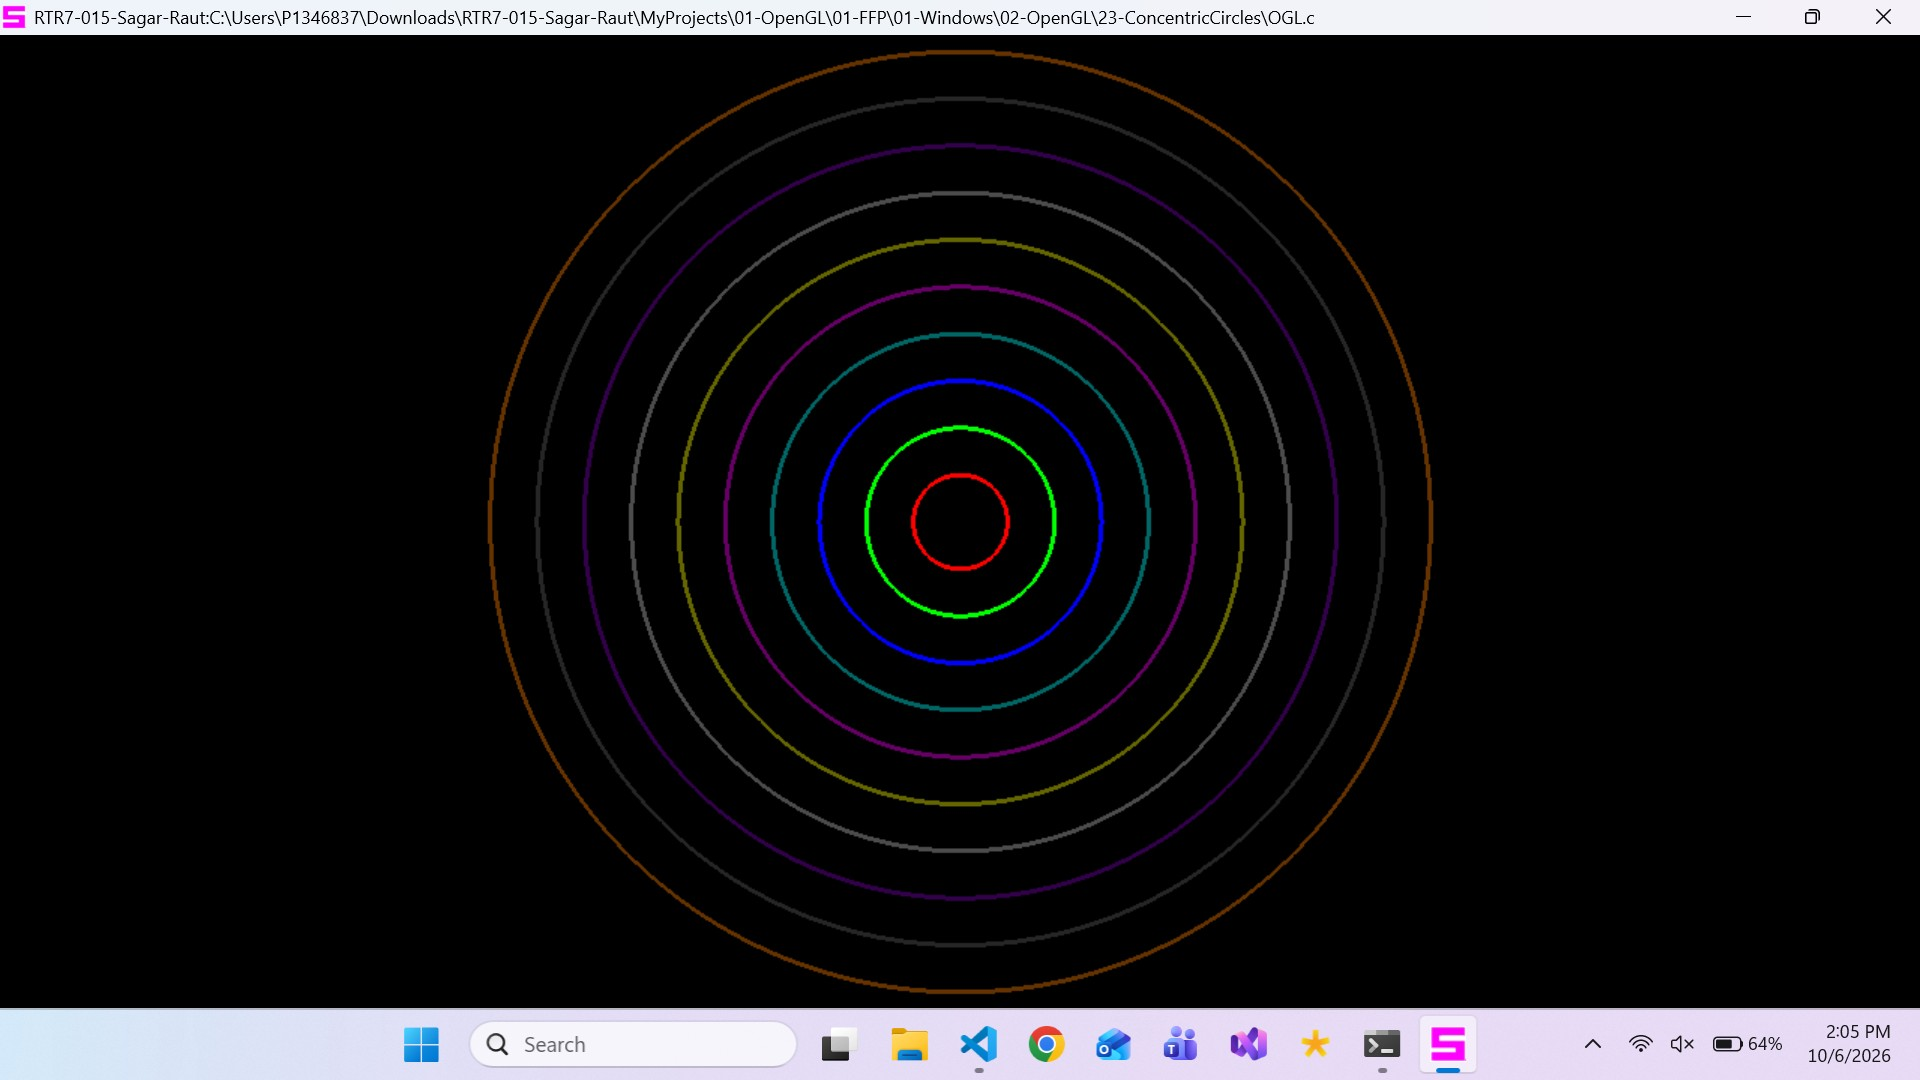
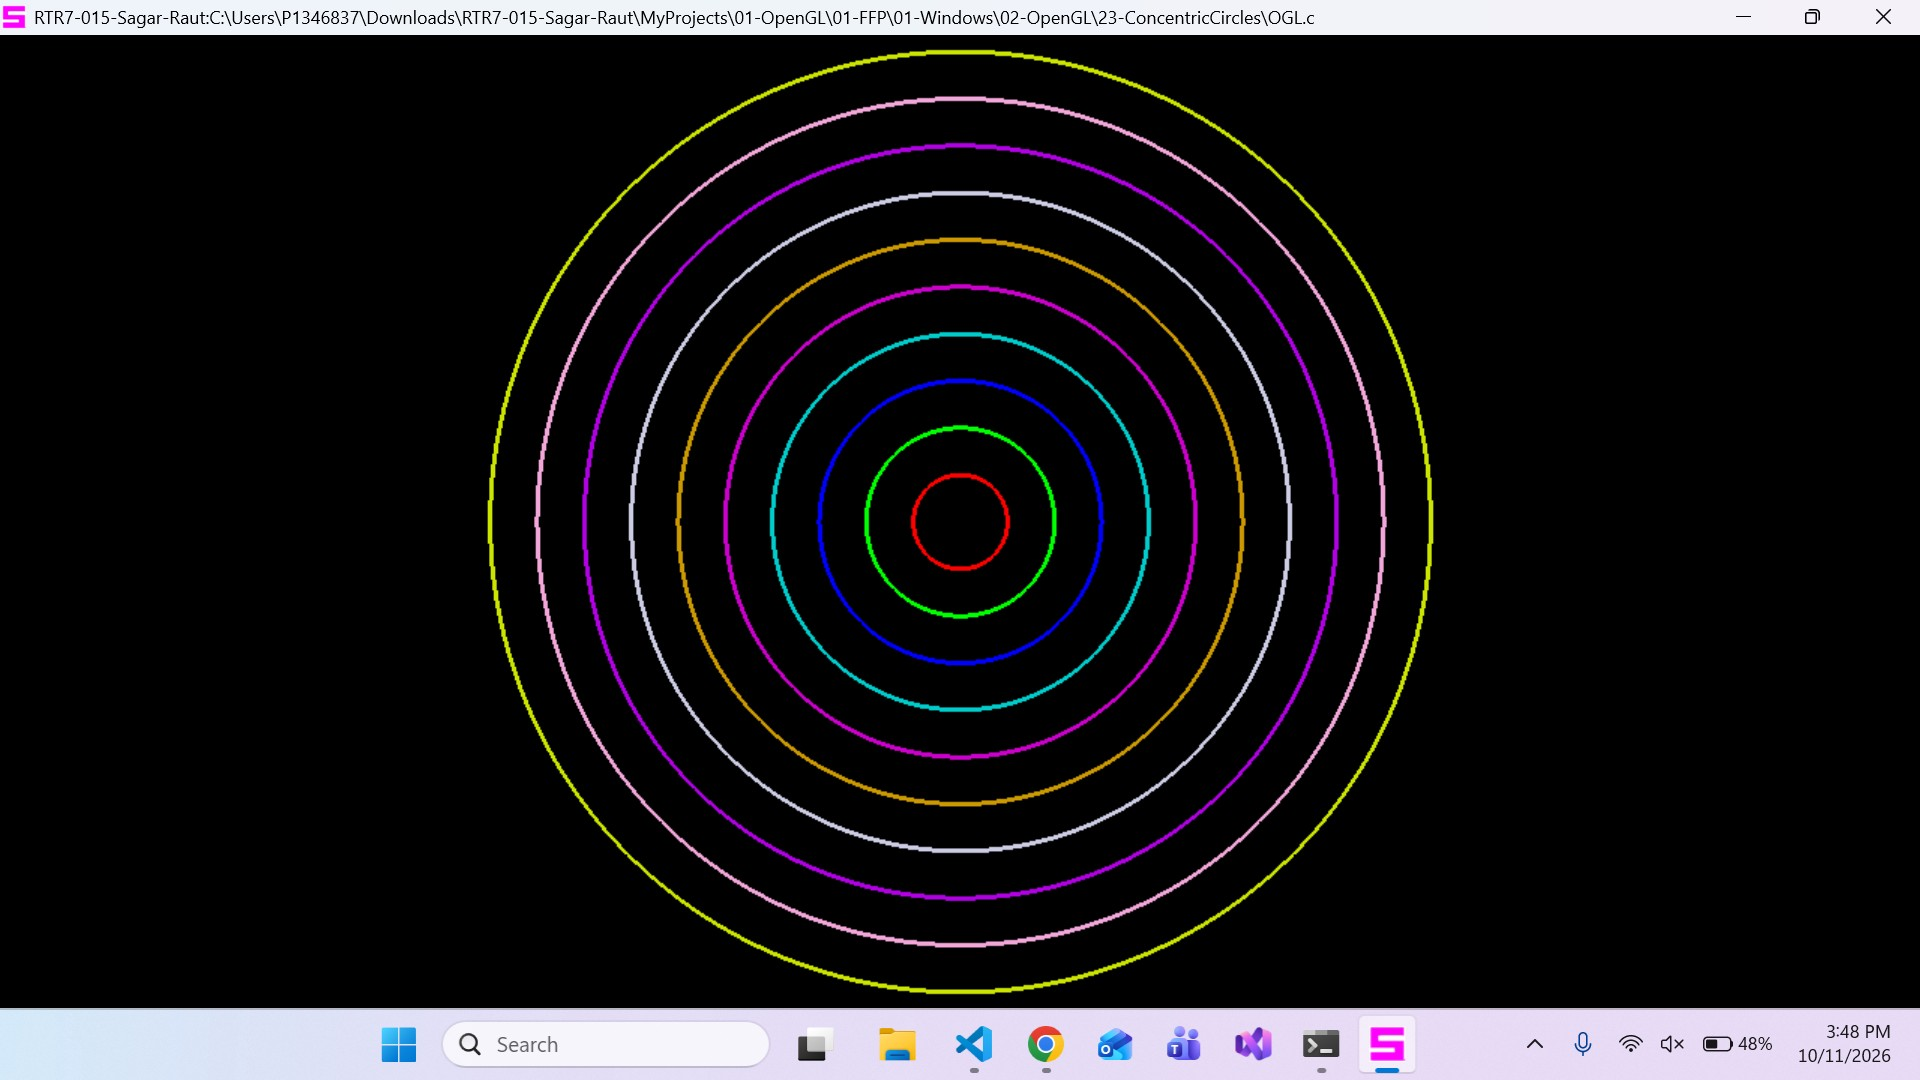
Concentric Circles code updated

diff --git a/MyProjects/01-OpenGL/01-FFP/01-Windows/02-OpenGL/23-ConcentricCircles/OGL.c b/MyProjects/01-OpenGL/01-FFP/01-Windows/02-OpenGL/23-ConcentricCircles/OGL.c
@@ -452,25 +452,25 @@ void render(void)
 	glColor3f(0.0f, 0.0f, 1.0f); // blue
 	renderCircleUsingLines(0.3f);
 
-	glColor3f(0.0f, 0.4f, 0.4f); // cyan
+	glColor3f(0.0f, 0.8f, 0.8f); // cyan
 	renderCircleUsingLines(0.4f);
 
-	glColor3f(0.4f, 0.0f, 0.4f); //  magenta
+	glColor3f(0.8f, 0.0f, 0.8f); //  magenta
 	renderCircleUsingLines(0.5f);
 
-	glColor3f(0.4f, 0.4f, 0.0f); //  yellow
+	glColor3f(0.8f, 0.6f, 0.0f); //  yellow
 	renderCircleUsingLines(0.6f);
 
-	glColor3f(0.3f, 0.3f, 0.3f); //  white
+	glColor3f(0.8f, 0.8f, 0.9f); //  white
 	renderCircleUsingLines(0.7f);
 
-	glColor3f(0.2f, 0.0f, 0.3f); //  purple
+	glColor3f(0.7f, 0.0f, 0.9f); //  purple
 	renderCircleUsingLines(0.8f);
 
-	glColor3f(0.15f, 0.15f, 0.15f); //  grey
+	glColor3f(0.95f, 0.65f, 0.85f); //  grey
 	renderCircleUsingLines(0.9f);
 
-	glColor3f(0.4f, 0.2f, 0.0f); // orange
+	glColor3f(0.8f, 0.9f, 0.0f); // orange
 	renderCircleUsingLines(1.0f);
 
 	// do double buffering
